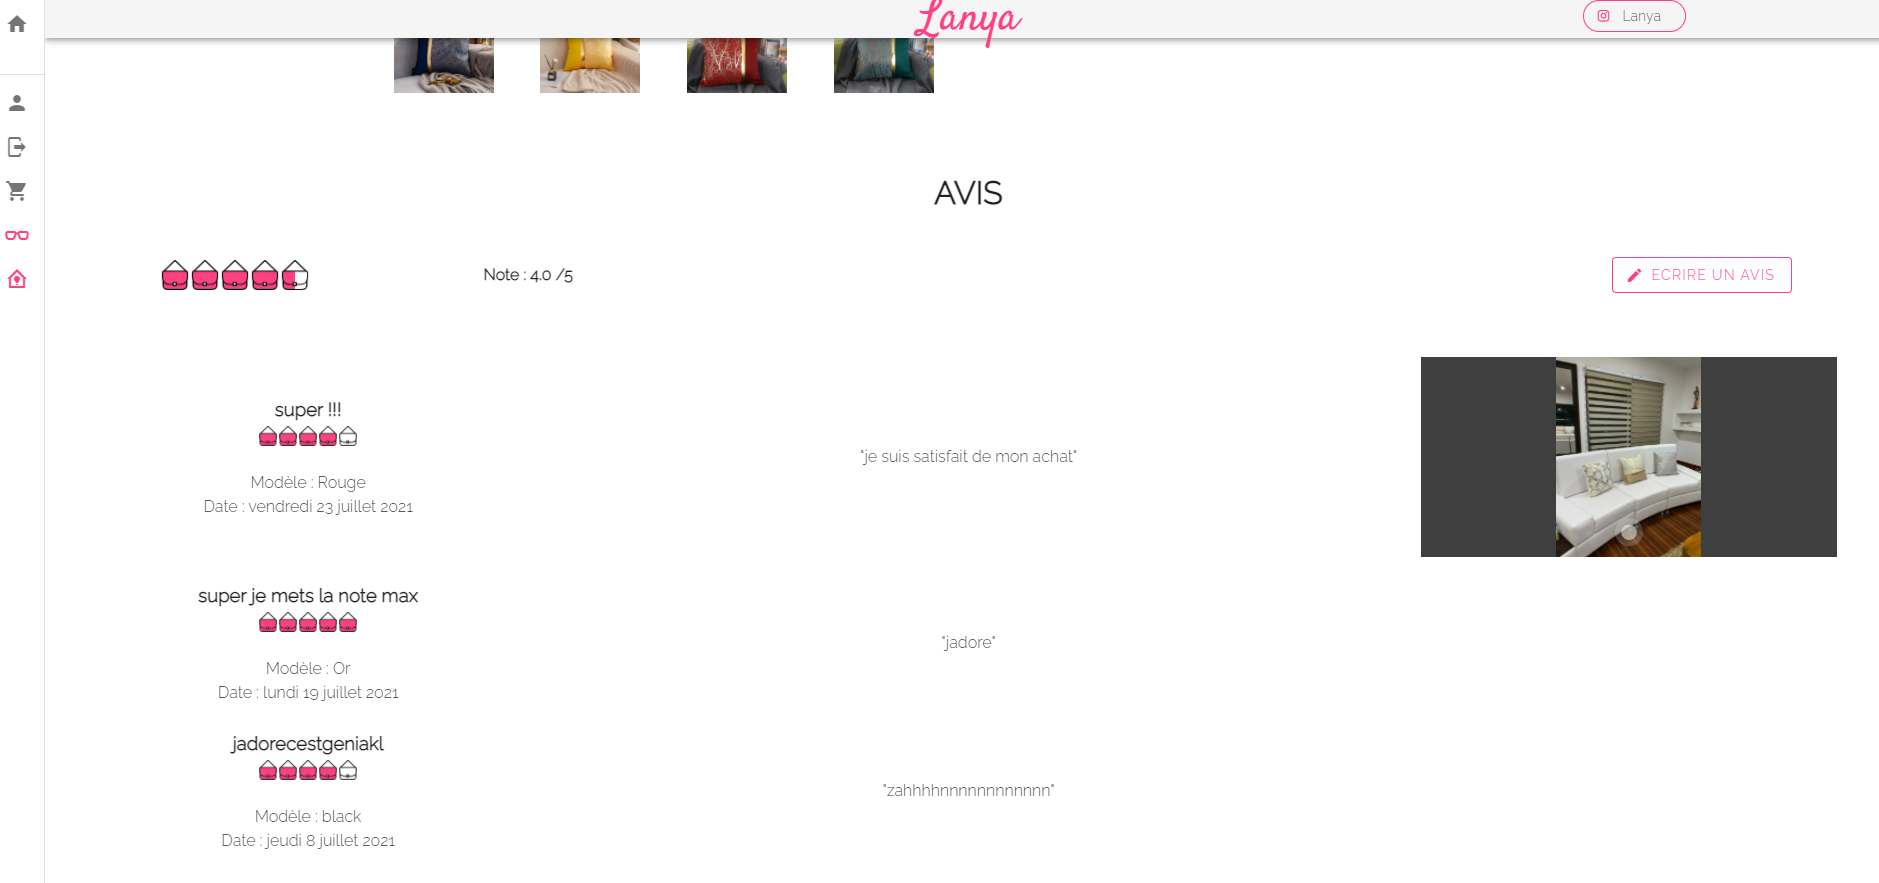
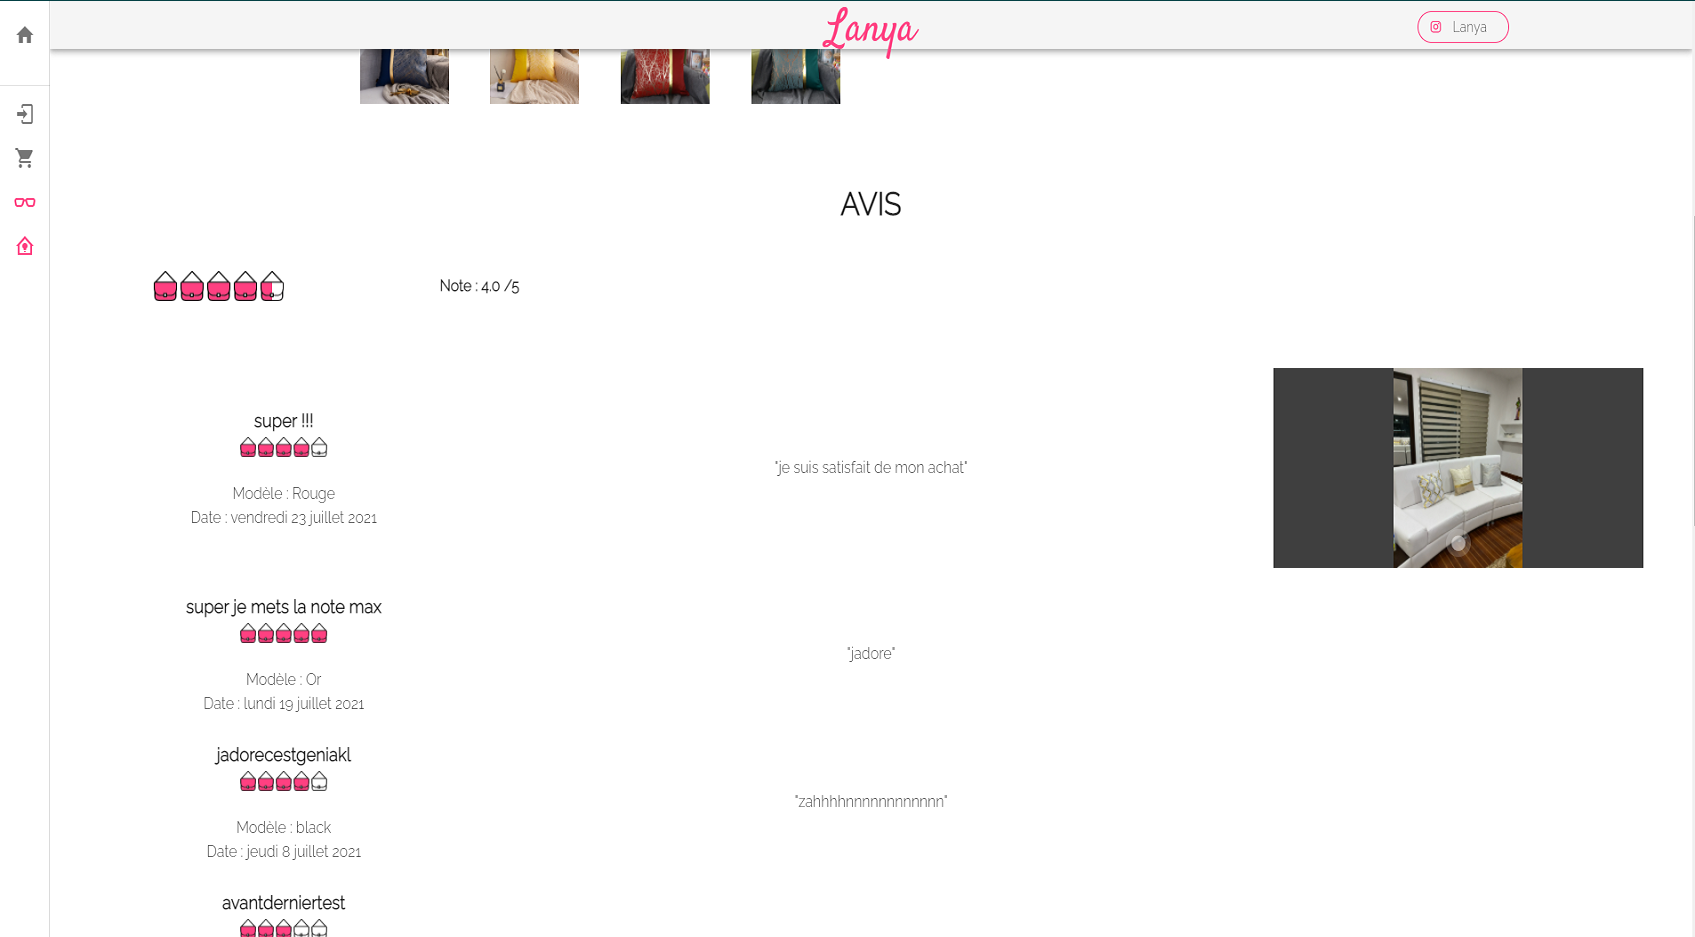
changin screenshot ratio not working

diff --git a/src/components/skills.vue b/src/components/skills.vue
@@ -11,7 +11,7 @@
             <v-row>
               <v-col cols="12">
                 <v-icon :elevation="hover ? 12 : 2"
-                        :class="{ 'on-hover': hover }" size="75">$vuetify.icons.htmlIcon
+                        :class="{ 'on-hover': hover }" size="65">$vuetify.icons.htmlIcon
                 </v-icon>
               </v-col>
               <v-col cols="12">
@@ -25,7 +25,7 @@
             <v-row>
               <v-col cols="12">
                 <v-icon :elevation="hover ? 12 : 2"
-                        :class="{ 'on-hover': hover }" size="75">$vuetify.icons.cssIcon
+                        :class="{ 'on-hover': hover }" size="65">$vuetify.icons.cssIcon
                 </v-icon>
               </v-col>
               <v-col cols="12">
@@ -39,7 +39,7 @@
             <v-row>
               <v-col cols="12">
                 <v-icon :elevation="hover ? 12 : 2"
-                        :class="{ 'on-hover': hover }" size="75">$vuetify.icons.vueIcon
+                        :class="{ 'on-hover': hover }" size="65">$vuetify.icons.vueIcon
                 </v-icon>
               </v-col>
               <v-col cols="12">
@@ -53,7 +53,7 @@
             <v-row>
               <v-col cols="12">
                 <v-icon :elevation="hover ? 12 : 2"
-                        :class="{ 'on-hover': hover }" size="75">$vuetify.icons.symfonyIcon
+                        :class="{ 'on-hover': hover }" size="65">$vuetify.icons.symfonyIcon
                 </v-icon>
               </v-col>
               <v-col cols="12">
@@ -67,7 +67,7 @@
             <v-row>
               <v-col cols="12">
                 <v-icon :elevation="hover ? 12 : 2"
-                        :class="{ 'on-hover': hover }" size="75">$vuetify.icons.electronIcon
+                        :class="{ 'on-hover': hover }" size="65">$vuetify.icons.electronIcon
                 </v-icon>
               </v-col>
               <v-col cols="12">
@@ -81,7 +81,7 @@
             <v-row>
               <v-col cols="12">
                 <v-icon :elevation="hover ? 12 : 2"
-                        :class="{ 'on-hover': hover }" size="75">$vuetify.icons.firebaseIcon
+                        :class="{ 'on-hover': hover }" size="65">$vuetify.icons.firebaseIcon
                 </v-icon>
               </v-col>
               <v-col cols="12">
@@ -98,7 +98,7 @@
             <v-row>
               <v-col cols="12">
                 <v-icon :elevation="hover ? 12 : 2"
-                        :class="{ 'on-hover': hover }" size="75">$vuetify.icons.figmaIcon
+                        :class="{ 'on-hover': hover }" size="65">$vuetify.icons.figmaIcon
                 </v-icon>
               </v-col>
               <v-col cols="12">
@@ -112,7 +112,7 @@
             <v-row>
               <v-col cols="12">
                 <v-icon :elevation="hover ? 12 : 2"
-                        :class="{ 'on-hover': hover }" size="75">$vuetify.icons.photoshopIcon
+                        :class="{ 'on-hover': hover }" size="65">$vuetify.icons.photoshopIcon
                 </v-icon>
               </v-col>
               <v-col cols="12">

diff --git a/src/components/portfolio.vue b/src/components/portfolio.vue
@@ -3,8 +3,8 @@
     <div class="text-h4 mx-4 mx-md-0 py-16">
       {{ $t("done") }}
     </div>
-    <v-card max-width="1000">
-      <v-tabs color="white" dark background-color="noir" v-model="tab">
+    <v-card>
+      <v-tabs grow color="white" dark background-color="noir" v-model="tab">
         <v-tab key="1">Lanya</v-tab>
         <v-tab key="2">Mültitaskÿ</v-tab>
         <v-tab key="3">Fleeting</v-tab>
@@ -17,7 +17,7 @@
             <v-card-text
             > {{ $t('lanya') }}
             </v-card-text>
-            <v-carousel :height="carouselHeight">
+            <v-carousel height="auto">
               <v-carousel-item
                       v-for="(item,i) in lanya"
                       :key="i"

diff --git a/src/TODO.php b/src/TODO.php
@@ -1,5 +1,5 @@
 <?php
 
-// TODO: change screenshot resolution to better fit both mobile and desktop view, close nav drawer when clicking a routernav
+// TODO: change v-carousel =git screenshot resolution to better fit both mobile and desktop view, close nav drawer when clicking a routernav ratio 1,81 on 1080p desktop
 // TODO: star sky flat design
 // TODO: fleeting sass to better screenshots
